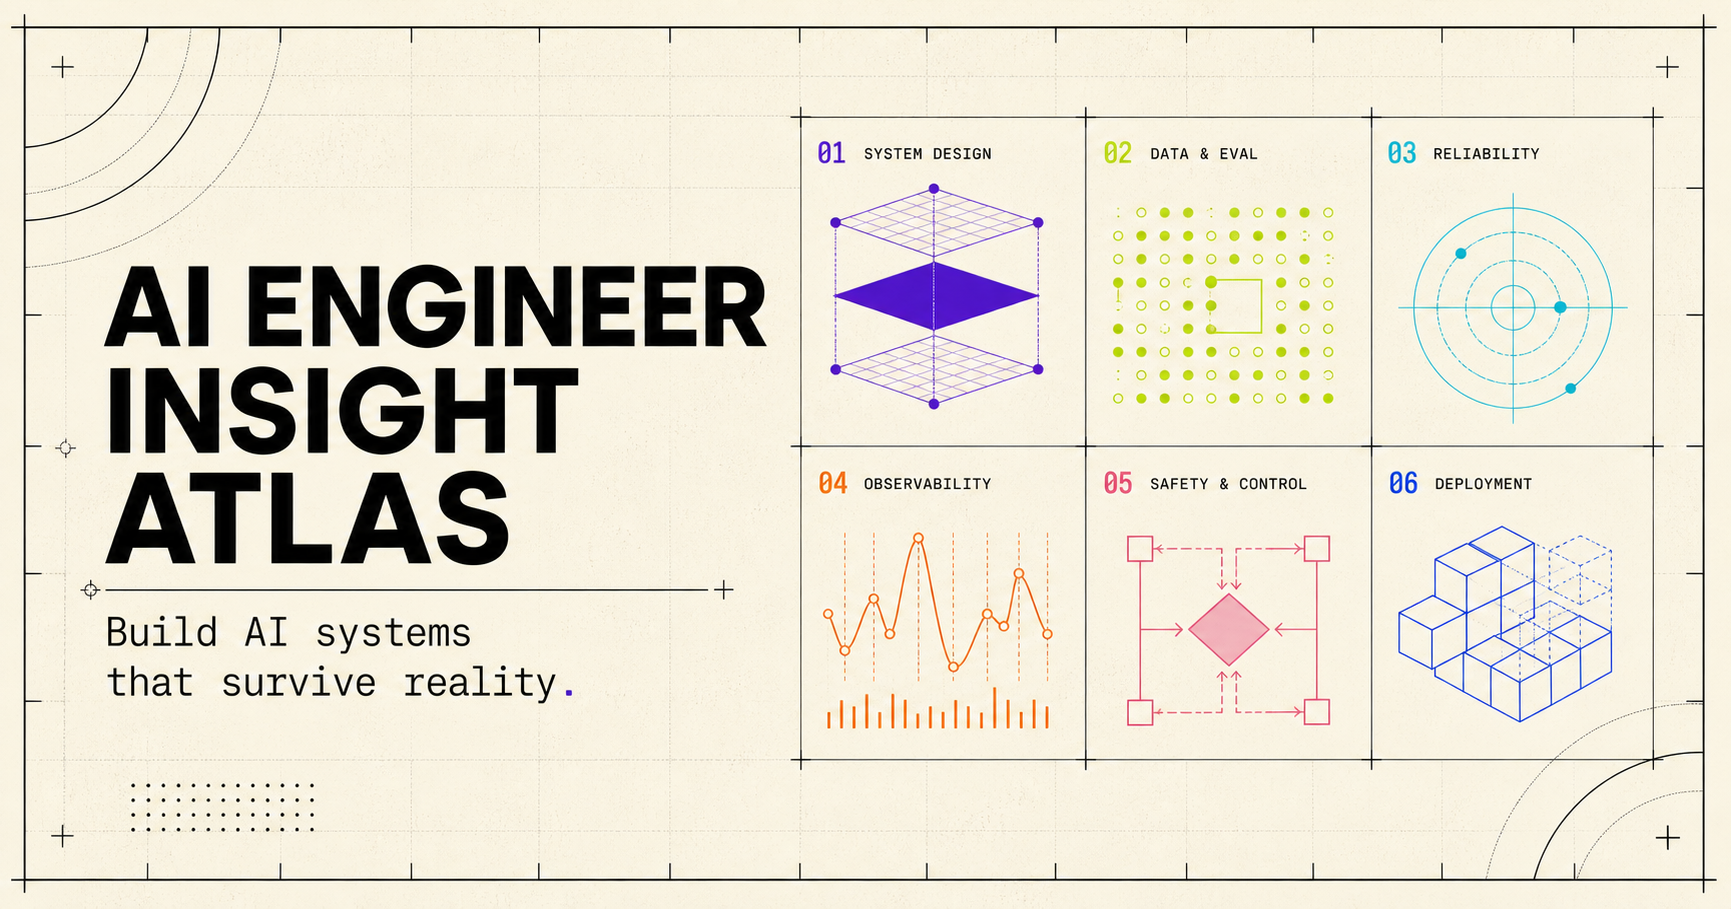
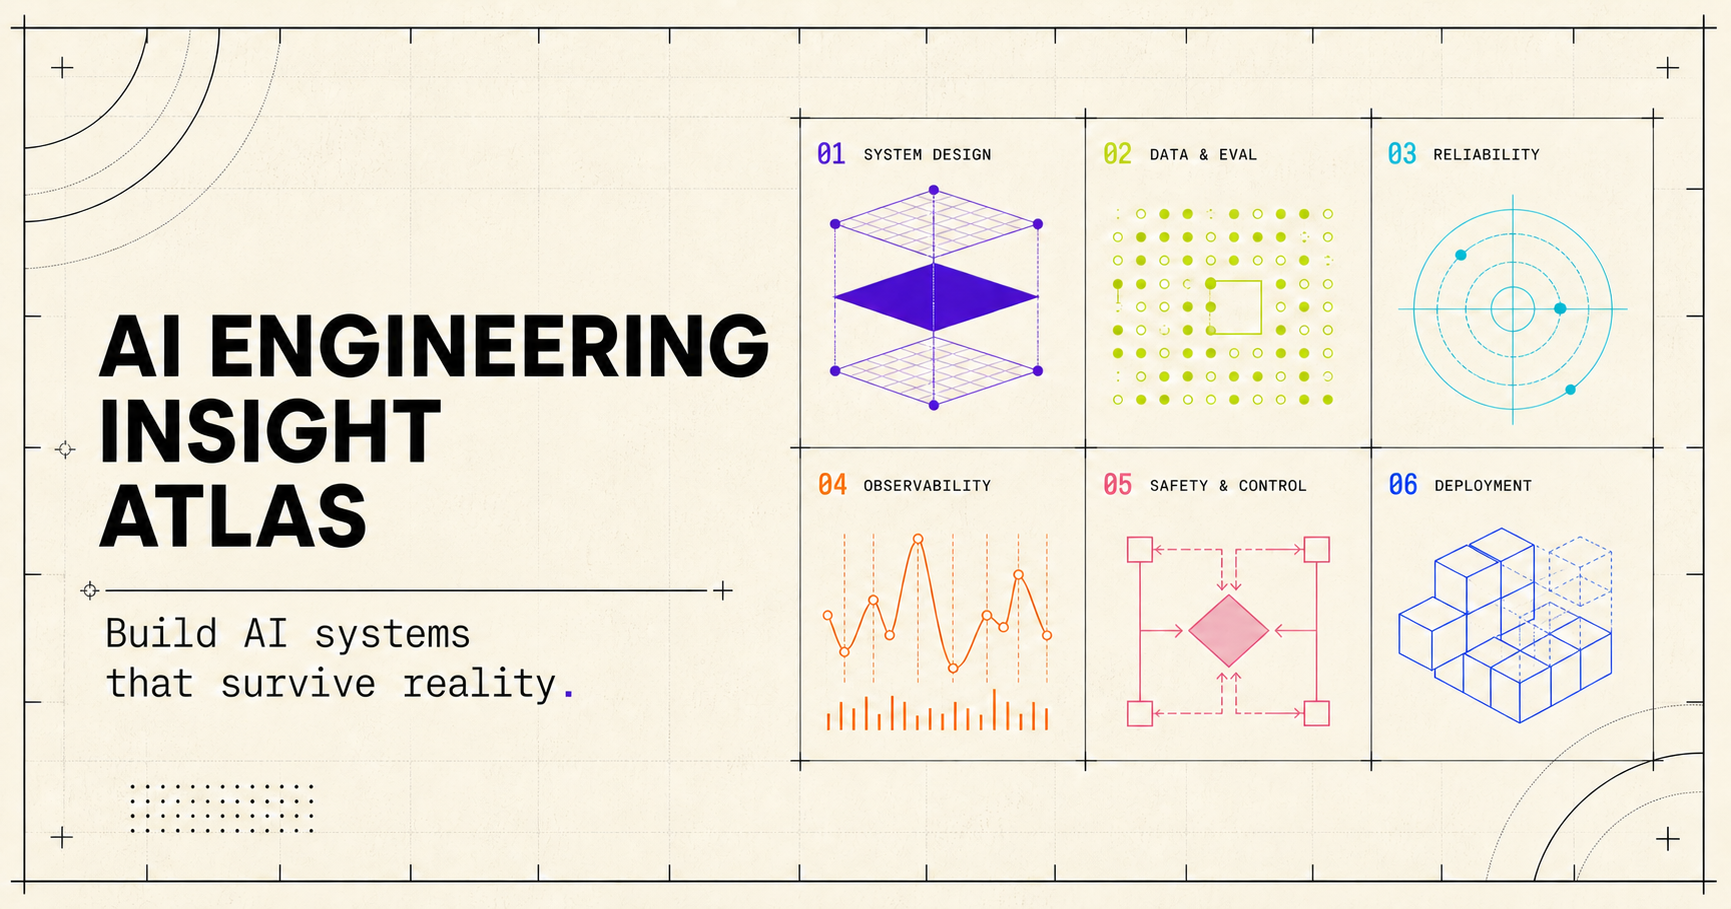
Rename Atlas hero and remove channel link

diff --git a/src/routes/index.tsx b/src/routes/index.tsx
@@ -7927,14 +7927,6 @@ function Dashboard() {
           </span>
           <span className="font-display text-sm font-medium tracking-tight">Video Atlas</span>
         </a>
-        <a
-          href="https://www.youtube.com/@aiDotEngineer"
-          target="_blank"
-          rel="noreferrer"
-          className="font-mono text-[11px] uppercase tracking-widest text-ink hover:underline"
-        >
-          Channel ↗
-        </a>
       </header>
 
       {/* HERO */}
@@ -7948,7 +7940,7 @@ function Dashboard() {
             <source srcSet="/hero-atlas.webp" type="image/webp" />
             <img
               src="/hero-atlas.png"
-              alt="AI Engineer Video Atlas. Build AI systems that survive reality. Six visual panels represent system design, data & eval, reliability, observability, safety & control, and deployment."
+              alt="AI Engineering Insight Atlas. Build AI systems that survive reality. Six visual panels represent system design, data & eval, reliability, observability, safety & control, and deployment."
               width={1731}
               height={909}
               loading="eager"
